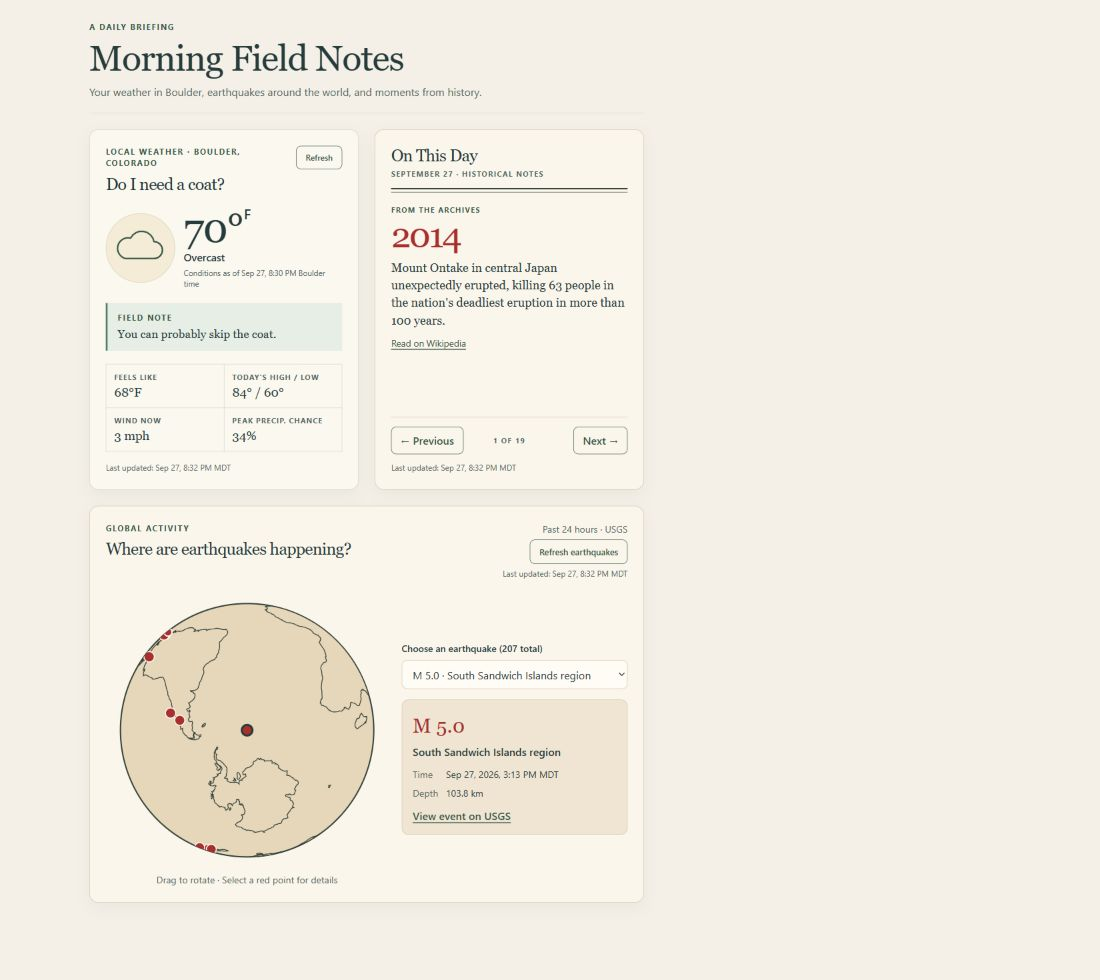
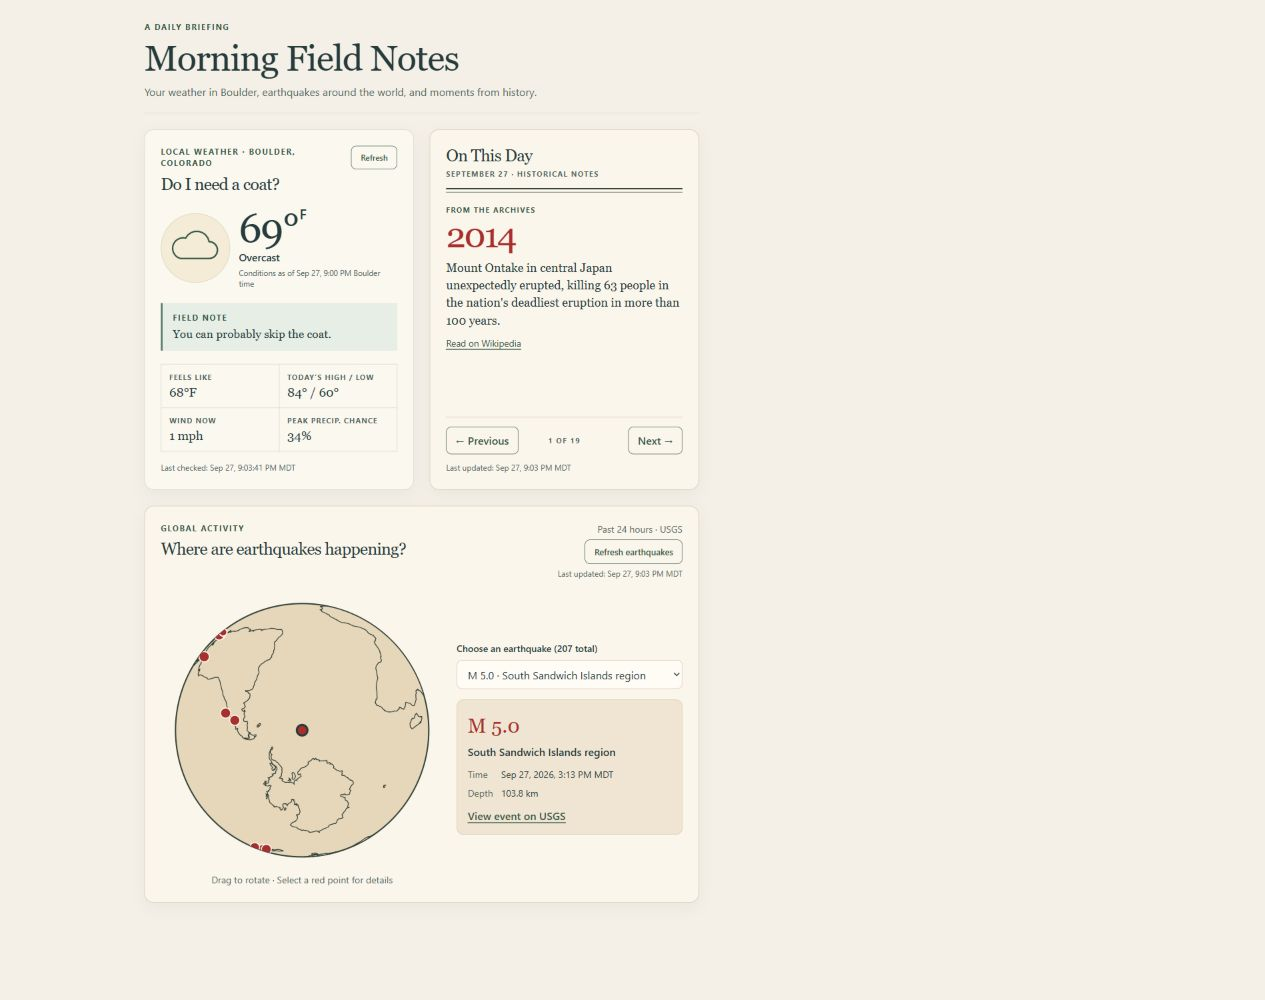
Clarify weather refresh results

diff --git a/src/WeatherCard.tsx b/src/WeatherCard.tsx
@@ -97,6 +97,17 @@ function coatAdvice(report: WeatherReport): string {
   return advice;
 }
 
+function sameWeather(first: WeatherReport, second: WeatherReport): boolean {
+  return first.temperatureF === second.temperatureF &&
+    first.weatherCode === second.weatherCode &&
+    first.feelsLikeF === second.feelsLikeF &&
+    first.windMph === second.windMph &&
+    first.highF === second.highF &&
+    first.lowF === second.lowF &&
+    first.peakPrecipChance === second.peakPrecipChance &&
+    first.observedAt === second.observedAt;
+}
+
 function WeatherGlyph({ code }: { code: number | null }) {
   const storm = code === 95 || code === 96 || code === 99;
   const snow = code !== null && [71, 73, 75, 77, 85, 86].includes(code);
@@ -133,23 +144,29 @@ export function WeatherCard() {
   const [weather, setWeather] = useState<WeatherReport | null>(null);
   const [lastUpdated, setLastUpdated] = useState<number | null>(null);
   const [refreshError, setRefreshError] = useState(false);
+  const [refreshResult, setRefreshResult] = useState<"unchanged" | "updated" | null>(null);
   const [isRefreshing, setIsRefreshing] = useState(false);
   const [attempt, setAttempt] = useState(0);
 
   useEffect(() => {
     const controller = new AbortController();
     setRefreshError(false);
+    setRefreshResult(null);
     if (weather) setIsRefreshing(true);
     else setStatus("loading");
 
-    fetch(WEATHER_URL, { signal: controller.signal })
+    fetch(WEATHER_URL, { signal: controller.signal, cache: "no-store" })
       .then((response) => {
         if (!response.ok) throw new Error(`Weather request failed: ${response.status}`);
         return response.json();
       })
       .then((json: unknown) => {
         if (controller.signal.aborted) return;
-        setWeather(toWeatherReport(json));
+        const nextWeather = toWeatherReport(json);
+        if (weather) {
+          setRefreshResult(source === "live" && sameWeather(weather, nextWeather) ? "unchanged" : "updated");
+        }
+        setWeather(nextWeather);
         setLastUpdated(Date.now());
         setSource("live");
         setStatus("loaded");
@@ -232,7 +249,16 @@ export function WeatherCard() {
               Couldn’t update the weather. Showing the previous report.
             </p>
           )}
-          {source === "live" && <LastUpdated at={lastUpdated} className="mt-auto pt-4" />}
+          {refreshResult && (
+            <p className="weather-refresh-note" role="status">
+              {refreshResult === "unchanged"
+                ? "Checked again. The forecast values are unchanged."
+                : "Latest weather report loaded."}
+            </p>
+          )}
+          {source === "live" && (
+            <LastUpdated at={lastUpdated} label="Last checked" showSeconds className="mt-auto pt-4" />
+          )}
         </>
       )}
 

diff --git a/src/LastUpdated.tsx b/src/LastUpdated.tsx
@@ -1,9 +1,11 @@
 interface LastUpdatedProps {
   at: number | null;
   className?: string;
+  label?: string;
+  showSeconds?: boolean;
 }
 
-export function LastUpdated({ at, className = "" }: LastUpdatedProps) {
+export function LastUpdated({ at, className = "", label = "Last updated", showSeconds = false }: LastUpdatedProps) {
   if (at === null) return null;
 
   const formatted = new Intl.DateTimeFormat(undefined, {
@@ -11,12 +13,13 @@ export function LastUpdated({ at, className = "" }: LastUpdatedProps) {
     day: "numeric",
     hour: "numeric",
     minute: "2-digit",
+    ...(showSeconds ? { second: "2-digit" as const } : {}),
     timeZoneName: "short",
   }).format(at);
 
   return (
     <p className={`last-updated ${className}`}>
-      Last updated: <time dateTime={new Date(at).toISOString()}>{formatted}</time>
+      {label}: <time dateTime={new Date(at).toISOString()}>{formatted}</time>
     </p>
   );
 }

diff --git a/src/index.css b/src/index.css
@@ -244,6 +244,12 @@ select {
   font-size: 0.8rem;
 }
 
+.weather-refresh-note {
+  margin-top: 0.8rem;
+  color: var(--sage-dark);
+  font-size: 0.8rem;
+}
+
 .last-updated {
   color: var(--muted-ink);
   font-size: 0.75rem;

diff --git a/prompt_log.md b/prompt_log.md
@@ -53,3 +53,11 @@ One entry per AI interaction that shaped your work (every plan-only → go-ahead
 - **Output or changed files:** Asked to help finish the weather card. `src/WeatherCard.tsx`, weather styling, sample data, field map, and screenshots. Changed from initial idea since artwork purchases need api keys.
 - **Verification performed:** Checked live data, refresh, failed refresh, mobile and desktop layout, loading and error views; build and type check passed.
 - **Iteration or remaining issue:** Renamed rain chance to precipitation chance to match the API. No remaining issues.
+
+### Entry 4 — Clarify weather refresh — 2026-09-27
+
+- **Intent:** Check why Refresh appeared inactive.
+- **AI/model/tool used:** Codex in the desktop app.
+- **Output or changed files:** Updated weather refresh feedback, check time, and the field map.
+- **Verification performed:** The button sent a request that received HTTP 200. A repeated check showed that the forecast values were unchanged; build and type check passed.
+- **Iteration or remaining issue:** The card now says when a check succeeds without new values.

diff --git a/json_field_map.md b/json_field_map.md
@@ -52,7 +52,7 @@ Examples below come from the English Wikipedia selected anniversaries feed for S
 | Wikimedia `/onthisday/selected/09/27` | `selected[0].text` | `"Mount Ontake in central Japan unexpectedly erupted, killing 63 people in the nation's deadliest eruption in more than 100 years."` | Event text | Skip the event if missing or blank |
 | Wikimedia `/onthisday/selected/09/27` | `selected[0].pages[0].content_urls.desktop.page` | `"https://en.wikipedia.org/wiki/Mount_Ontake"` | “Read on Wikipedia” link | Hide the link if no valid English Wikipedia page is available |
 
-The small “Last updated” text on all three cards is the local time of the last successful fetch. It is generated by the app, so it has no JSON path and does not claim the source itself changed at that time.
+The weather card’s “Last checked” time and the other cards’ “Last updated” times are generated by the app after successful fetches. They have no JSON path and do not claim the source itself changed at that time.
 
 ## Checks before you submit
 
